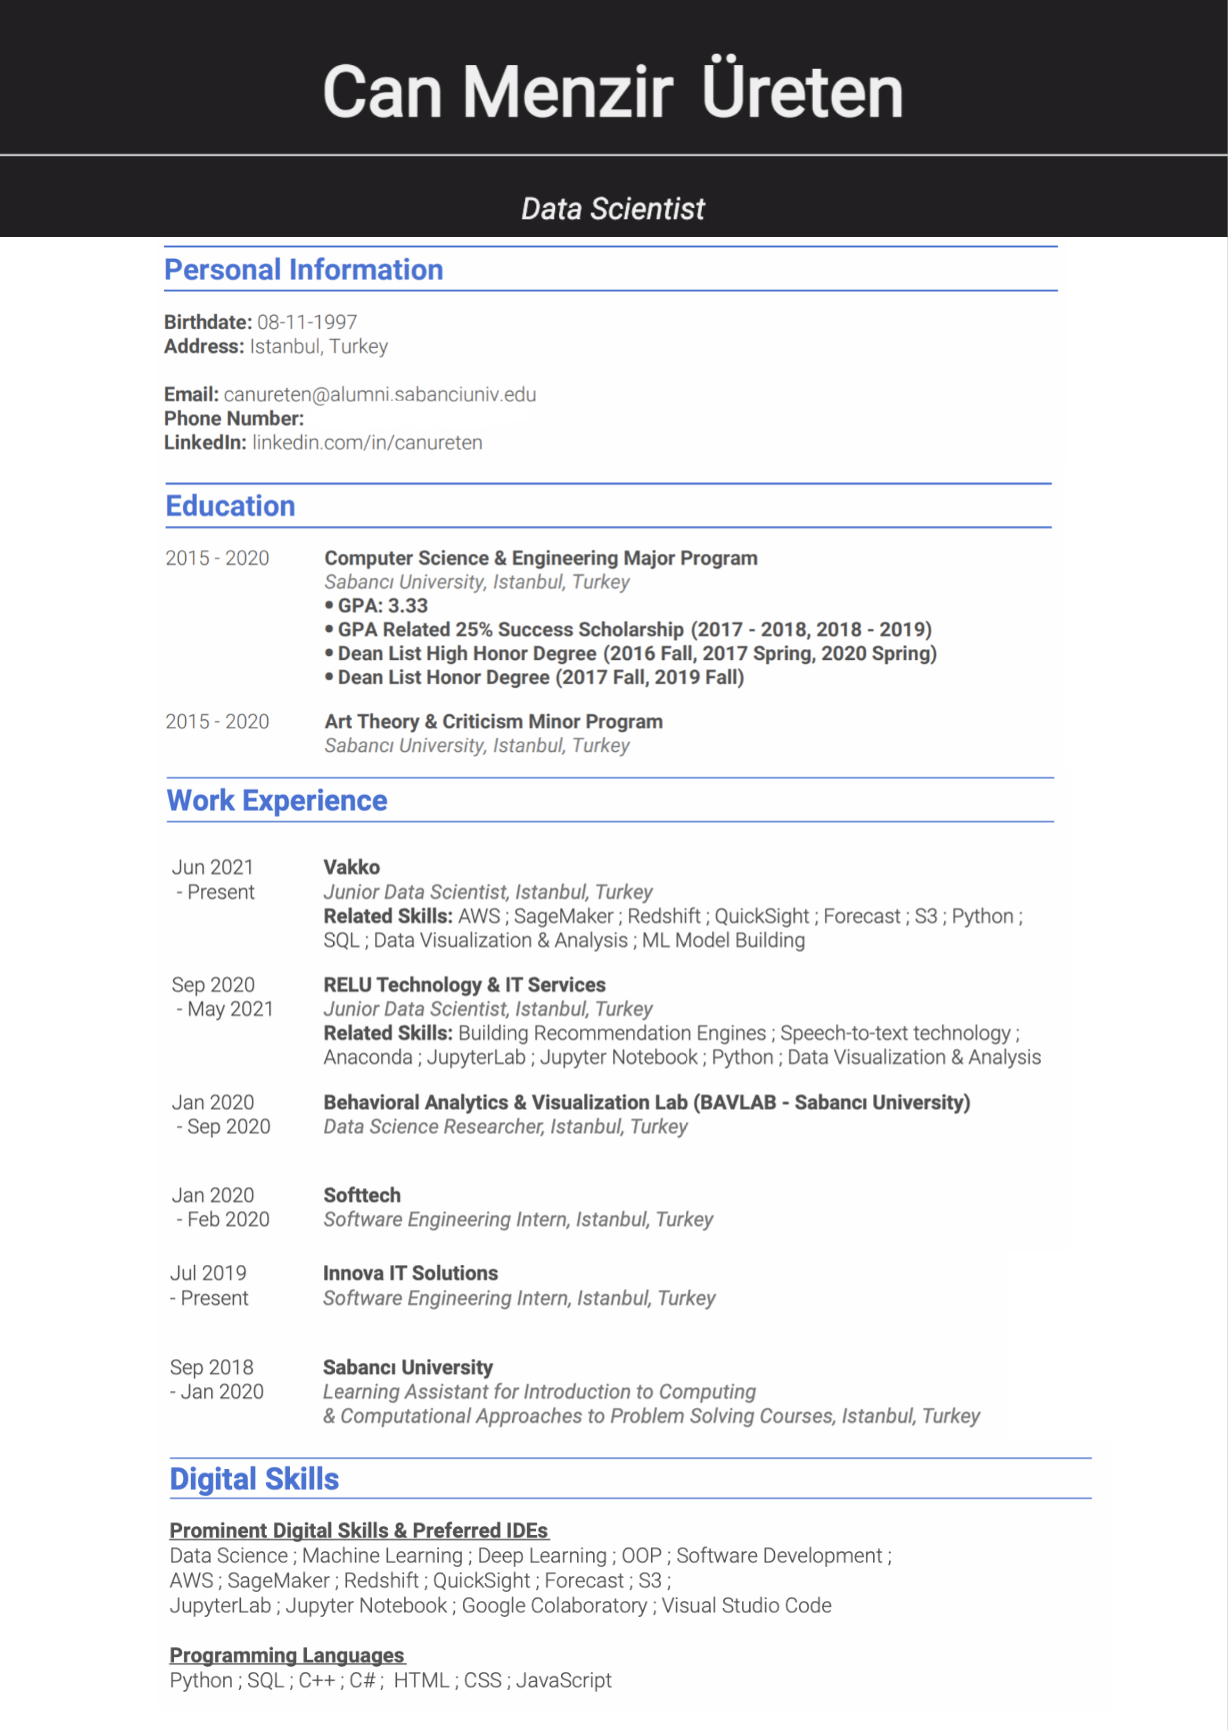
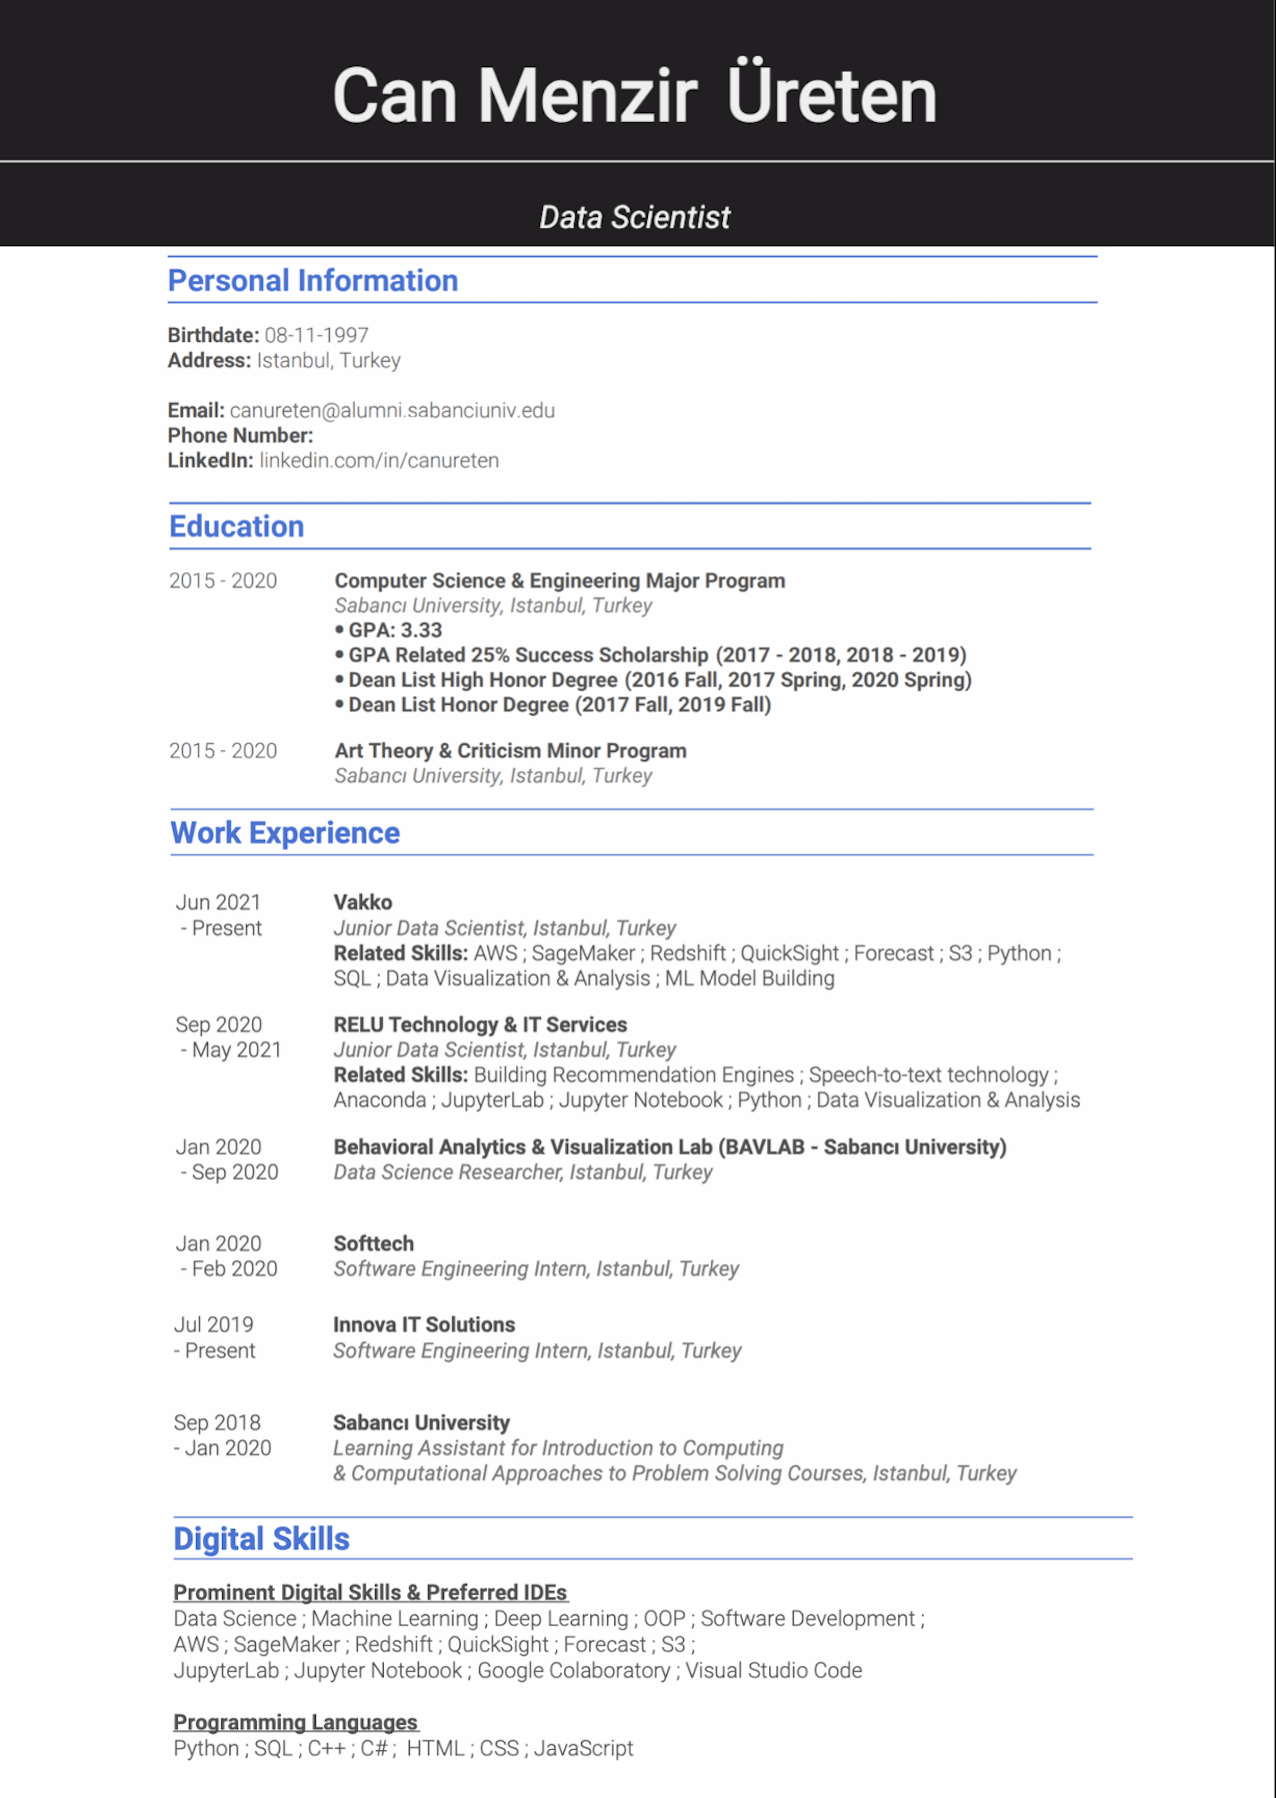
Initial commit

diff --git a/about.html b/about.html
@@ -1,0 +1,19 @@
+---
+layout: page
+title: About
+description:
+background: '/img/stars.jpg'
+---
+
+<p align = "center">Hi! This is Can.</p>
+<p align = "center">I graduated from Computer Science & Engineering Program of Sabancı University in June 2020.</p>
+<p align = "center">I have been a Data Scientist since September 2020 and working for Vakko since June 2021.</p>
+<p align = "center">In Vakko, I am a member of the Data Science Team and responsible for the data driven jobs of the Product Department.</p>
+<p align = "center">Personally, my goal is to enhance my skills and knowledge in the fields of Recommendation/Personalization and NLP.</p>
+<p align = "center">
+
+<img src="/img/cv/cv_1.png" width="90%">
+<br>
+<img src="/img/cv/cv_2.png"  width="90%">
+</p>
+

diff --git a/_includes/navbar.html b/_includes/navbar.html
@@ -12,7 +12,7 @@
           <a class="nav-link" href="{{"/" | relative_url }}">Home</a>
         </li>
         <li class="nav-item">
-          <a class="nav-link" href="{{"/cv" | relative_url }}">CV</a>
+          <a class="nav-link" href="{{"/about" | relative_url }}">About</a>
         </li>
         <li class="nav-item">
           <a class="nav-link" href="{{ "/posts" | relative_url }}">Posts</a>
